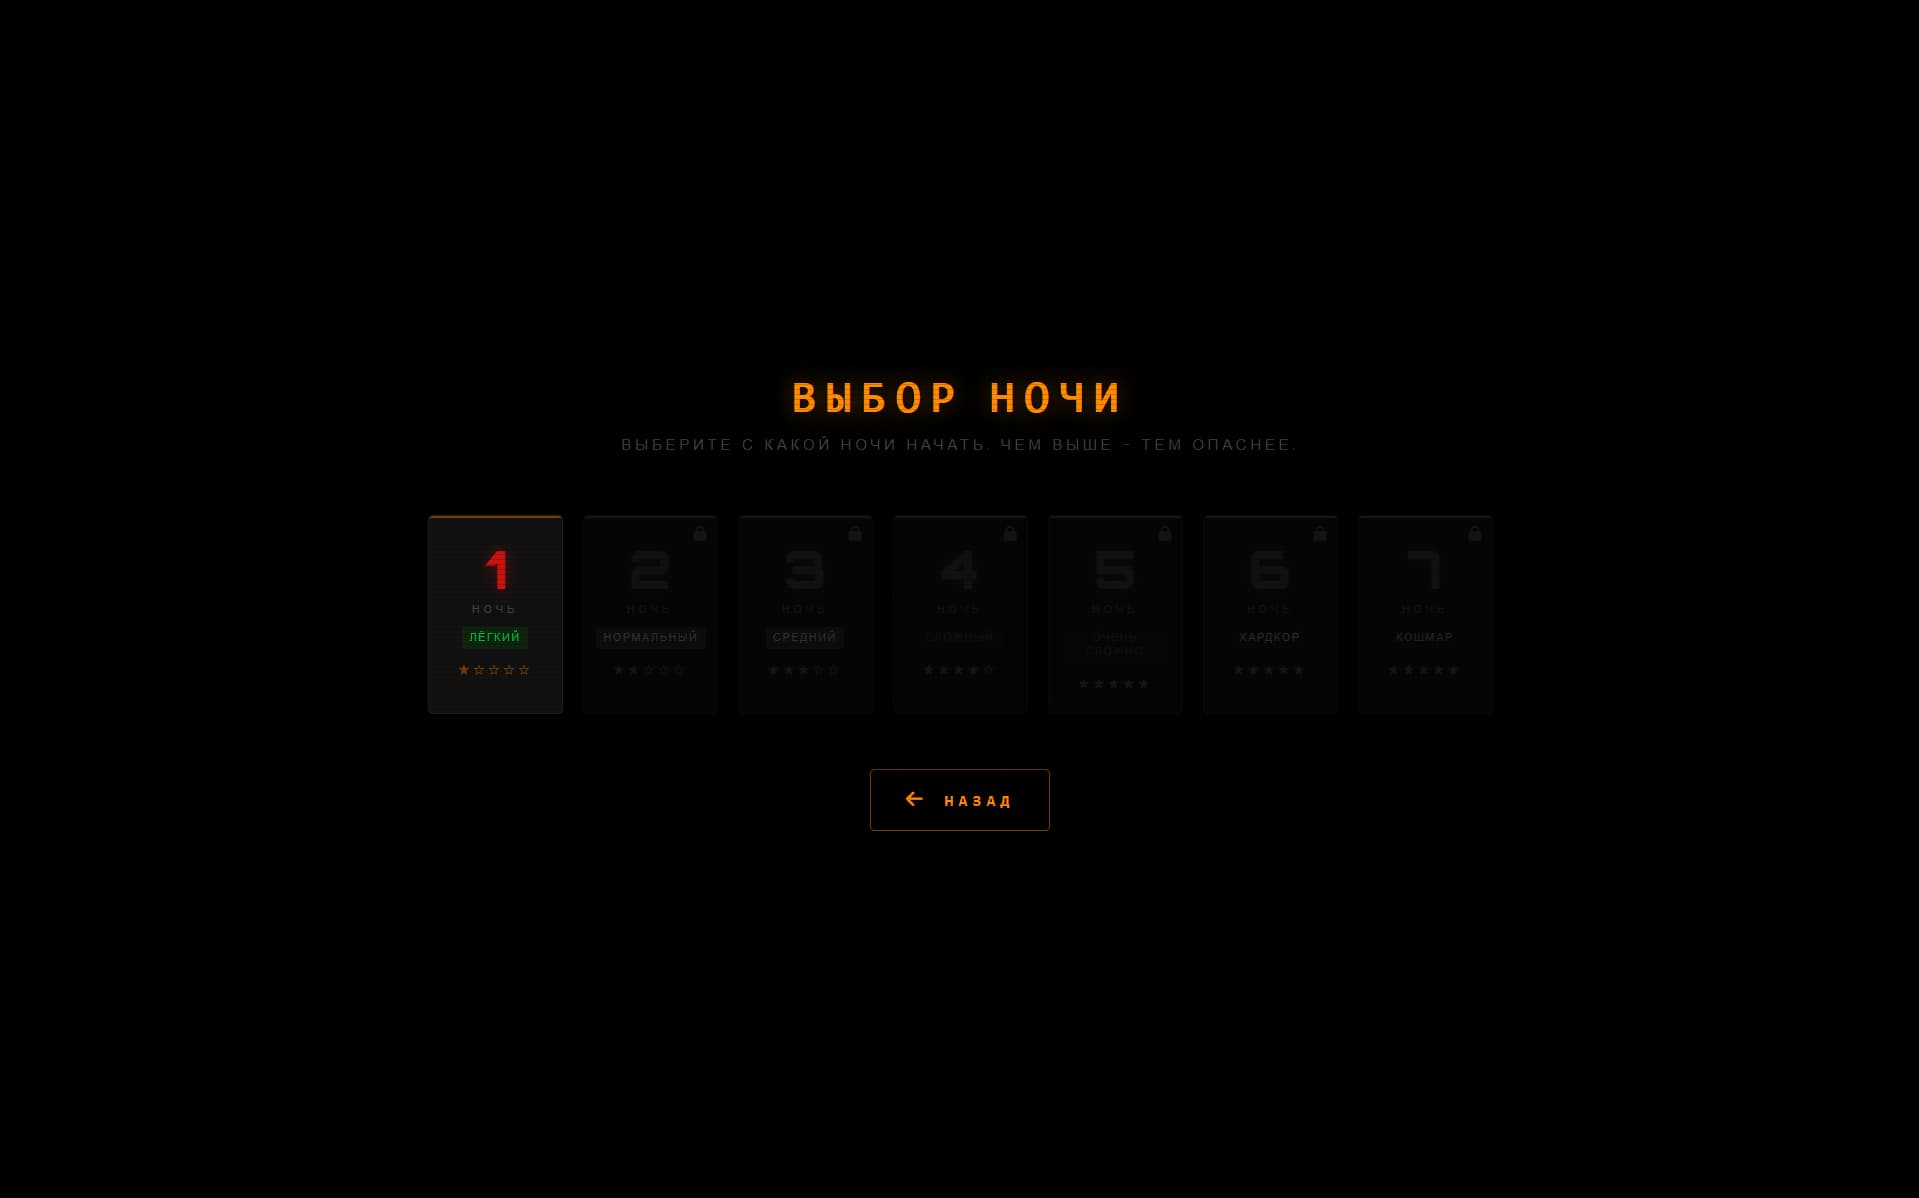
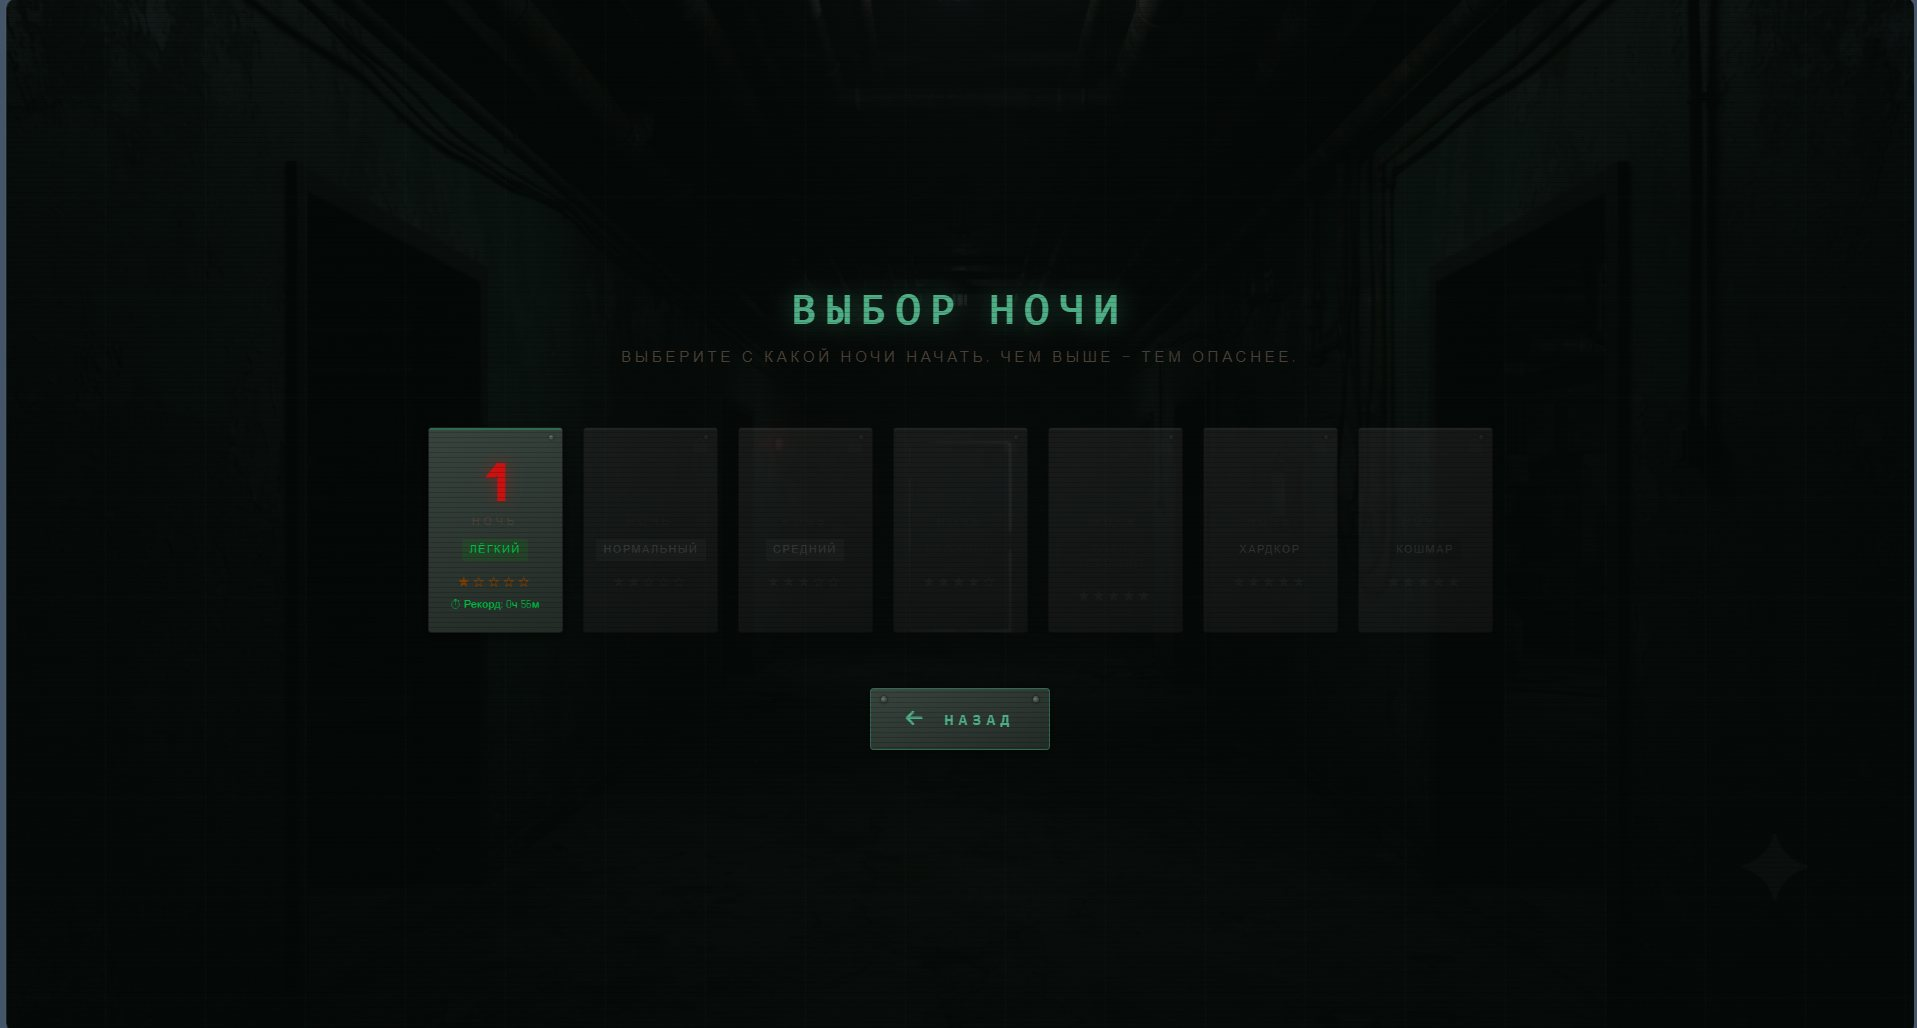
Обновить страницу FNAF на сайте: ребрендинг в «ЖЕЛЕЗНЫЙ ЦЕХ»
Игра переработана в оригинальный хоррор про заброшенный завод —
обновлены название, описание, скриншоты, мета-теги и ссылки в футере
на всех страницах сайта.

diff --git a/fnaf.html b/fnaf.html
@@ -3,17 +3,17 @@
 <head>
   <meta charset="UTF-8" />
   <meta name="viewport" content="width=device-width, initial-scale=1.0" />
-  <title>FNAF — ASPECT</title>
-  <meta name="description" content="Выживите 7 ночей в роли охранника пиццерии Freddy Fazbear. Следите за камерами, пока аниматроники охотятся на вас." />
+  <title>ЖЕЛЕЗНЫЙ ЦЕХ — ASPECT</title>
+  <meta name="description" content="Ночная смена на заброшенном автоматизированном заводе. Следите за камерами, пока промышленные автоматы бродят по цехам в поисках вас." />
   <meta property="og:type" content="website" />
-  <meta property="og:title" content="FNAF — ASPECT" />
-  <meta property="og:description" content="Выживите 7 ночей в роли охранника пиццерии Freddy Fazbear. Следите за камерами, закрывайте двери и экономьте энергию." />
+  <meta property="og:title" content="ЖЕЛЕЗНЫЙ ЦЕХ — ASPECT" />
+  <meta property="og:description" content="Ночная смена на заброшенном автоматизированном заводе. Следите за камерами, закрывайте двери и экономьте энергию." />
   <meta property="og:image" content="https://dmitriromanusha1-sys.github.io/aspect-games-/LOGO/Gemini_Generated_Image_vqp7wtvqp7wtvqp7.png" />
   <meta property="og:url" content="https://dmitriromanusha1-sys.github.io/aspect-games-/fnaf.html" />
   <meta property="og:site_name" content="ASPECT Games" />
   <meta name="twitter:card" content="summary_large_image" />
-  <meta name="twitter:title" content="FNAF — ASPECT" />
-  <meta name="twitter:description" content="Выживите 7 ночей в роли охранника пиццерии Freddy Fazbear." />
+  <meta name="twitter:title" content="ЖЕЛЕЗНЫЙ ЦЕХ — ASPECT" />
+  <meta name="twitter:description" content="Ночная смена на заброшенном автоматизированном заводе." />
   <meta name="twitter:image" content="https://dmitriromanusha1-sys.github.io/aspect-games-/LOGO/Gemini_Generated_Image_vqp7wtvqp7wtvqp7.png" />
   <meta name="theme-color" content="#0a0a0f" />
   <link rel="manifest" href="manifest.json" />
@@ -50,7 +50,7 @@
     <div class="footer-inner">
       <div class="footer-links">
         <a href="resonance.html">RESONANCE</a>
-        <a href="fnaf.html">FNAF</a>
+        <a href="fnaf.html">ЖЕЛЕЗНЫЙ ЦЕХ</a>
         <a href="evtn.html">EVTN</a>
         <a href="shot.html">Shot</a>
         <a href="outpost.html">Outpost_Game</a>

diff --git a/games.js b/games.js
@@ -24,27 +24,24 @@
     ],
   },
   fnaf: {
-    title: 'FNAF',
+    title: 'ЖЕЛЕЗНЫЙ ЦЕХ',
     status: 'Релиз',
-    version: 'V.1.6.7',
+    version: 'V.1.0',
     released: '2026',
     url: 'https://dmitriromanusha1-sys.github.io/fnaf-game/',
     genre: 'Инди · Хоррор',
     tags: ['#horror', '#survival', '#nights'],
     difficulty: 'Сложно',
-    description: 'Выживите 7 ночей в роли охранника пиццерии Freddy Fazbear. Следите за камерами, закрывайте двери и экономьте энергию, пока четыре аниматроника — Freddy, Bonnie, Chica и Foxy — охотятся на вас.',
+    description: 'Ночная смена на заброшенном автоматизированном заводе. Следите за камерами, закрывайте двери и экономьте энергию, пока четыре промышленных автомата — Токарь, Искра, Лента и Шпала — бродят по цехам в поисках вас.',
     screenshots: [
       'FNAF/fnaf-1.jpg',
       'FNAF/fnaf-2.jpg',
       'FNAF/fnaf-3.jpg',
       'FNAF/fnaf-4.jpg',
       'FNAF/fnaf-5.jpg',
-      'FNAF/fnaf-6.jpg',
     ],
     changelog: [
-      'V.1.6.7 — Баг-фиксы и балансировка',
-      'V.1.6.0 — Новые механики',
-      'V.1.5.0 — Добавлены новые персонажи',
+      'V.1.0 — Полный ребрендинг: новый сеттинг, персонажи, арт, музыка и сюжет',
     ],
   },
   evtn: {

diff --git a/index.html b/index.html
@@ -99,7 +99,7 @@
         <div class="card-tag">Релиз</div>
         <span class="card-plays" id="plays-fnaf"></span>
         <div class="card-hint">Открыть →</div>
-        <h3>FNAF</h3>
+        <h3>ЖЕЛЕЗНЫЙ ЦЕХ</h3>
         <div class="card-tags"><span>#horror</span><span>#survival</span><span>#nights</span></div>
         <div class="card-bottom">
           <span class="version">V.1.6.7</span>
@@ -262,7 +262,7 @@
         </li>
         <li class="news-item">
           <span class="news-date">27.12.2025</span>
-          <p class="news-text">Начало разработки. Первые пять игр команды в порядке создания: Outpost → Shot → EVTN → FNAF → RESONANCE.</p>
+          <p class="news-text">Начало разработки. Первые пять игр команды в порядке создания: Outpost → Shot → EVTN → ЖЕЛЕЗНЫЙ ЦЕХ → RESONANCE.</p>
         </li>
       </ul>
     </div>
@@ -320,7 +320,7 @@
     <div class="footer-inner">
       <div class="footer-links">
         <a href="resonance.html">RESONANCE</a>
-        <a href="fnaf.html">FNAF</a>
+        <a href="fnaf.html">ЖЕЛЕЗНЫЙ ЦЕХ</a>
         <a href="evtn.html">EVTN</a>
         <a href="shot.html">Shot</a>
         <a href="outpost.html">Outpost_Game</a>

diff --git a/changelog.html b/changelog.html
@@ -4,7 +4,7 @@
   <meta charset="UTF-8" />
   <meta name="viewport" content="width=device-width, initial-scale=1.0" />
   <title>История версий — ASPECT</title>
-  <meta name="description" content="История обновлений всех игр ASPECT: RESONANCE, FNAF, EVTN, Shot, Outpost." />
+  <meta name="description" content="История обновлений всех игр ASPECT: RESONANCE, ЖЕЛЕЗНЫЙ ЦЕХ, EVTN, Shot, Outpost." />
   <meta name="theme-color" content="#0a0a0f" />
   <link rel="manifest" href="manifest.json" />
   <link rel="icon" type="image/png" href="LOGO/Gemini_Generated_Image_vqp7wtvqp7wtvqp7.png" />
@@ -45,7 +45,7 @@
     <div class="footer-inner">
       <div class="footer-links">
         <a href="resonance.html">RESONANCE</a>
-        <a href="fnaf.html">FNAF</a>
+        <a href="fnaf.html">ЖЕЛЕЗНЫЙ ЦЕХ</a>
         <a href="evtn.html">EVTN</a>
         <a href="shot.html">Shot</a>
         <a href="outpost.html">Outpost_Game</a>

diff --git a/404.html b/404.html
@@ -43,7 +43,7 @@
         <span class="not-found-games-label">Или перейди к игре:</span>
         <div class="not-found-games-links">
           <a href="resonance.html" class="nf-game-btn">RESONANCE</a>
-          <a href="fnaf.html"      class="nf-game-btn">FNAF</a>
+          <a href="fnaf.html"      class="nf-game-btn">ЖЕЛЕЗНЫЙ ЦЕХ</a>
           <a href="evtn.html"      class="nf-game-btn">EVTN</a>
           <a href="shot.html"      class="nf-game-btn">Shot</a>
           <a href="outpost.html"   class="nf-game-btn">Outpost</a>
@@ -59,7 +59,7 @@
     <div class="footer-inner">
       <div class="footer-links">
         <a href="resonance.html">RESONANCE</a>
-        <a href="fnaf.html">FNAF</a>
+        <a href="fnaf.html">ЖЕЛЕЗНЫЙ ЦЕХ</a>
         <a href="evtn.html">EVTN</a>
         <a href="shot.html">Shot</a>
         <a href="outpost.html">Outpost_Game</a>

diff --git a/coredrift.html b/coredrift.html
@@ -50,7 +50,7 @@
     <div class="footer-inner">
       <div class="footer-links">
         <a href="resonance.html">RESONANCE</a>
-        <a href="fnaf.html">FNAF</a>
+        <a href="fnaf.html">ЖЕЛЕЗНЫЙ ЦЕХ</a>
         <a href="evtn.html">EVTN</a>
         <a href="shot.html">Shot</a>
         <a href="outpost.html">Outpost_Game</a>

diff --git a/evtn.html b/evtn.html
@@ -50,7 +50,7 @@
     <div class="footer-inner">
       <div class="footer-links">
         <a href="resonance.html">RESONANCE</a>
-        <a href="fnaf.html">FNAF</a>
+        <a href="fnaf.html">ЖЕЛЕЗНЫЙ ЦЕХ</a>
         <a href="evtn.html">EVTN</a>
         <a href="shot.html">Shot</a>
         <a href="outpost.html">Outpost_Game</a>

diff --git a/floorbyfloor.html b/floorbyfloor.html
@@ -50,7 +50,7 @@
     <div class="footer-inner">
       <div class="footer-links">
         <a href="resonance.html">RESONANCE</a>
-        <a href="fnaf.html">FNAF</a>
+        <a href="fnaf.html">ЖЕЛЕЗНЫЙ ЦЕХ</a>
         <a href="evtn.html">EVTN</a>
         <a href="shot.html">Shot</a>
         <a href="outpost.html">Outpost_Game</a>

diff --git a/game.html b/game.html
@@ -44,7 +44,7 @@
     <div class="footer-inner">
       <div class="footer-links">
         <a href="resonance.html">RESONANCE</a>
-        <a href="fnaf.html">FNAF</a>
+        <a href="fnaf.html">ЖЕЛЕЗНЫЙ ЦЕХ</a>
         <a href="evtn.html">EVTN</a>
         <a href="shot.html">Shot</a>
         <a href="outpost.html">Outpost_Game</a>

diff --git a/oligarch.html b/oligarch.html
@@ -50,7 +50,7 @@
     <div class="footer-inner">
       <div class="footer-links">
         <a href="resonance.html">RESONANCE</a>
-        <a href="fnaf.html">FNAF</a>
+        <a href="fnaf.html">ЖЕЛЕЗНЫЙ ЦЕХ</a>
         <a href="evtn.html">EVTN</a>
         <a href="shot.html">Shot</a>
         <a href="outpost.html">Outpost_Game</a>

diff --git a/outpost.html b/outpost.html
@@ -50,7 +50,7 @@
     <div class="footer-inner">
       <div class="footer-links">
         <a href="resonance.html">RESONANCE</a>
-        <a href="fnaf.html">FNAF</a>
+        <a href="fnaf.html">ЖЕЛЕЗНЫЙ ЦЕХ</a>
         <a href="evtn.html">EVTN</a>
         <a href="shot.html">Shot</a>
         <a href="outpost.html">Outpost_Game</a>

diff --git a/resonance.html b/resonance.html
@@ -50,7 +50,7 @@
     <div class="footer-inner">
       <div class="footer-links">
         <a href="resonance.html">RESONANCE</a>
-        <a href="fnaf.html">FNAF</a>
+        <a href="fnaf.html">ЖЕЛЕЗНЫЙ ЦЕХ</a>
         <a href="evtn.html">EVTN</a>
         <a href="shot.html">Shot</a>
         <a href="outpost.html">Outpost_Game</a>
